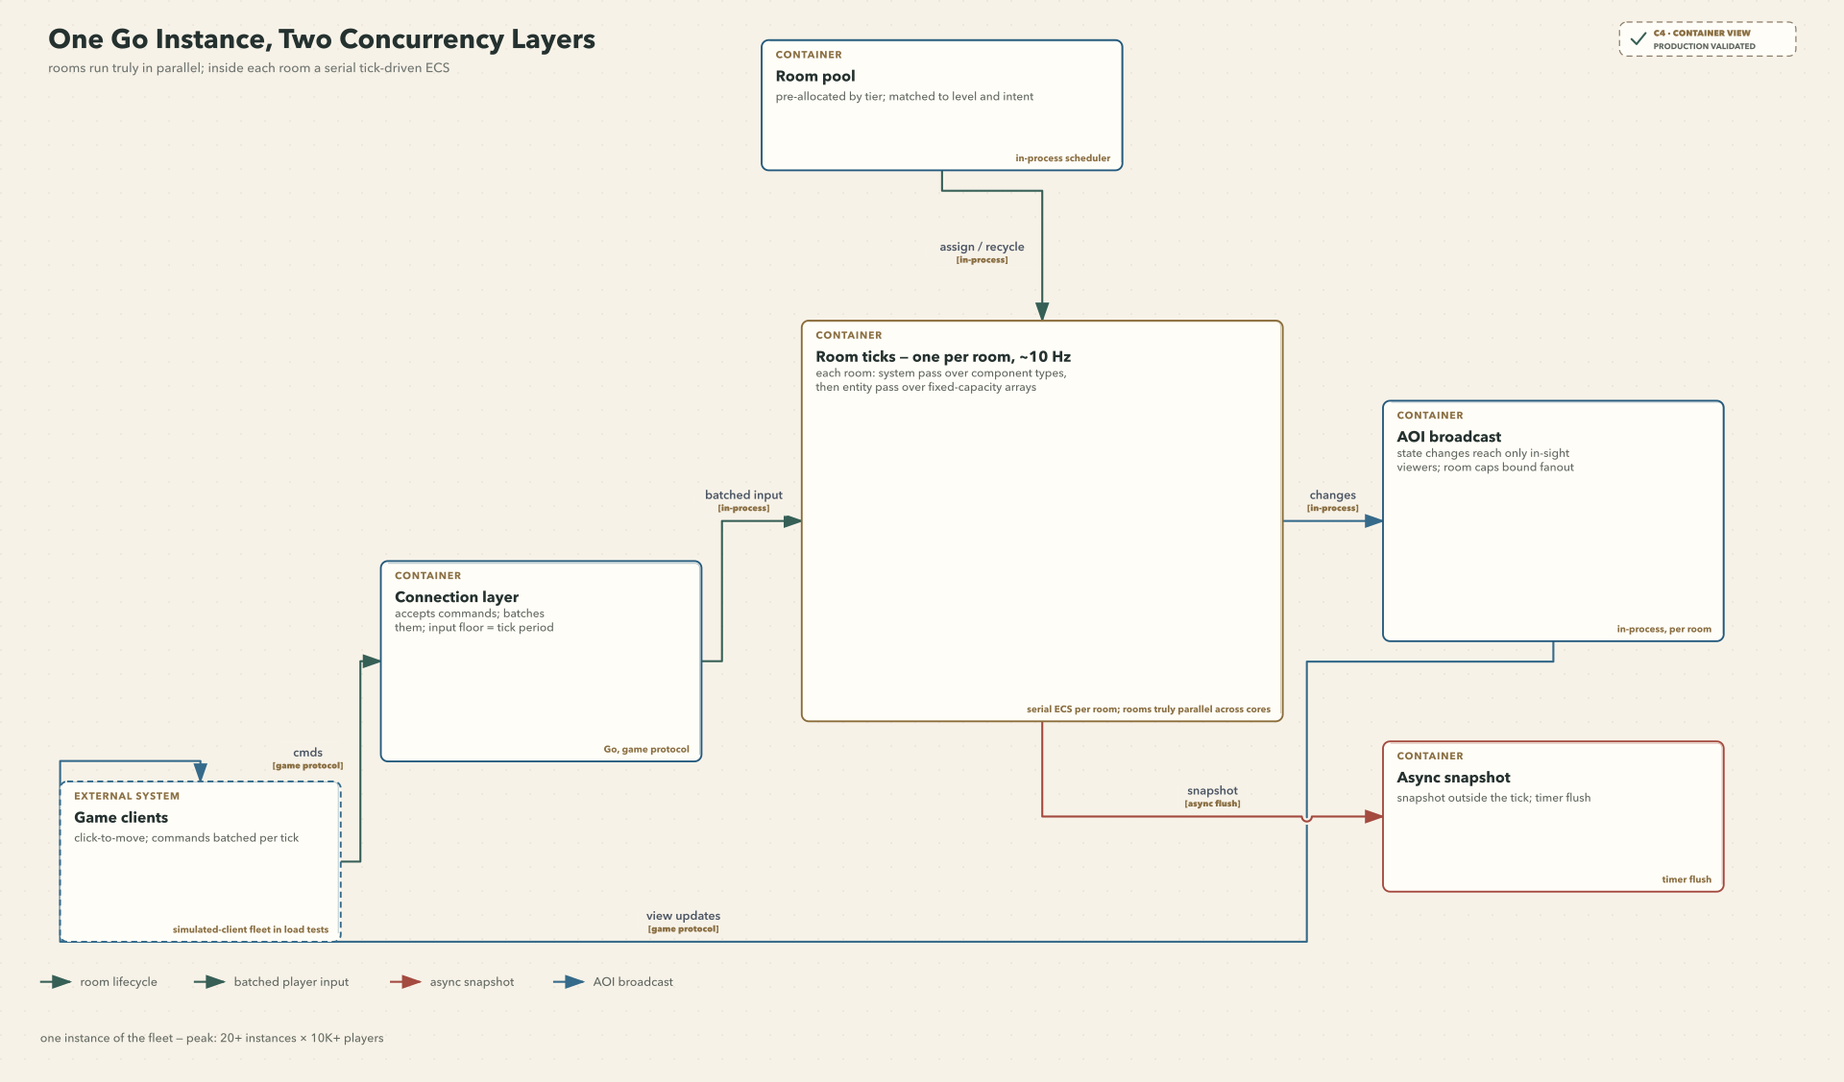
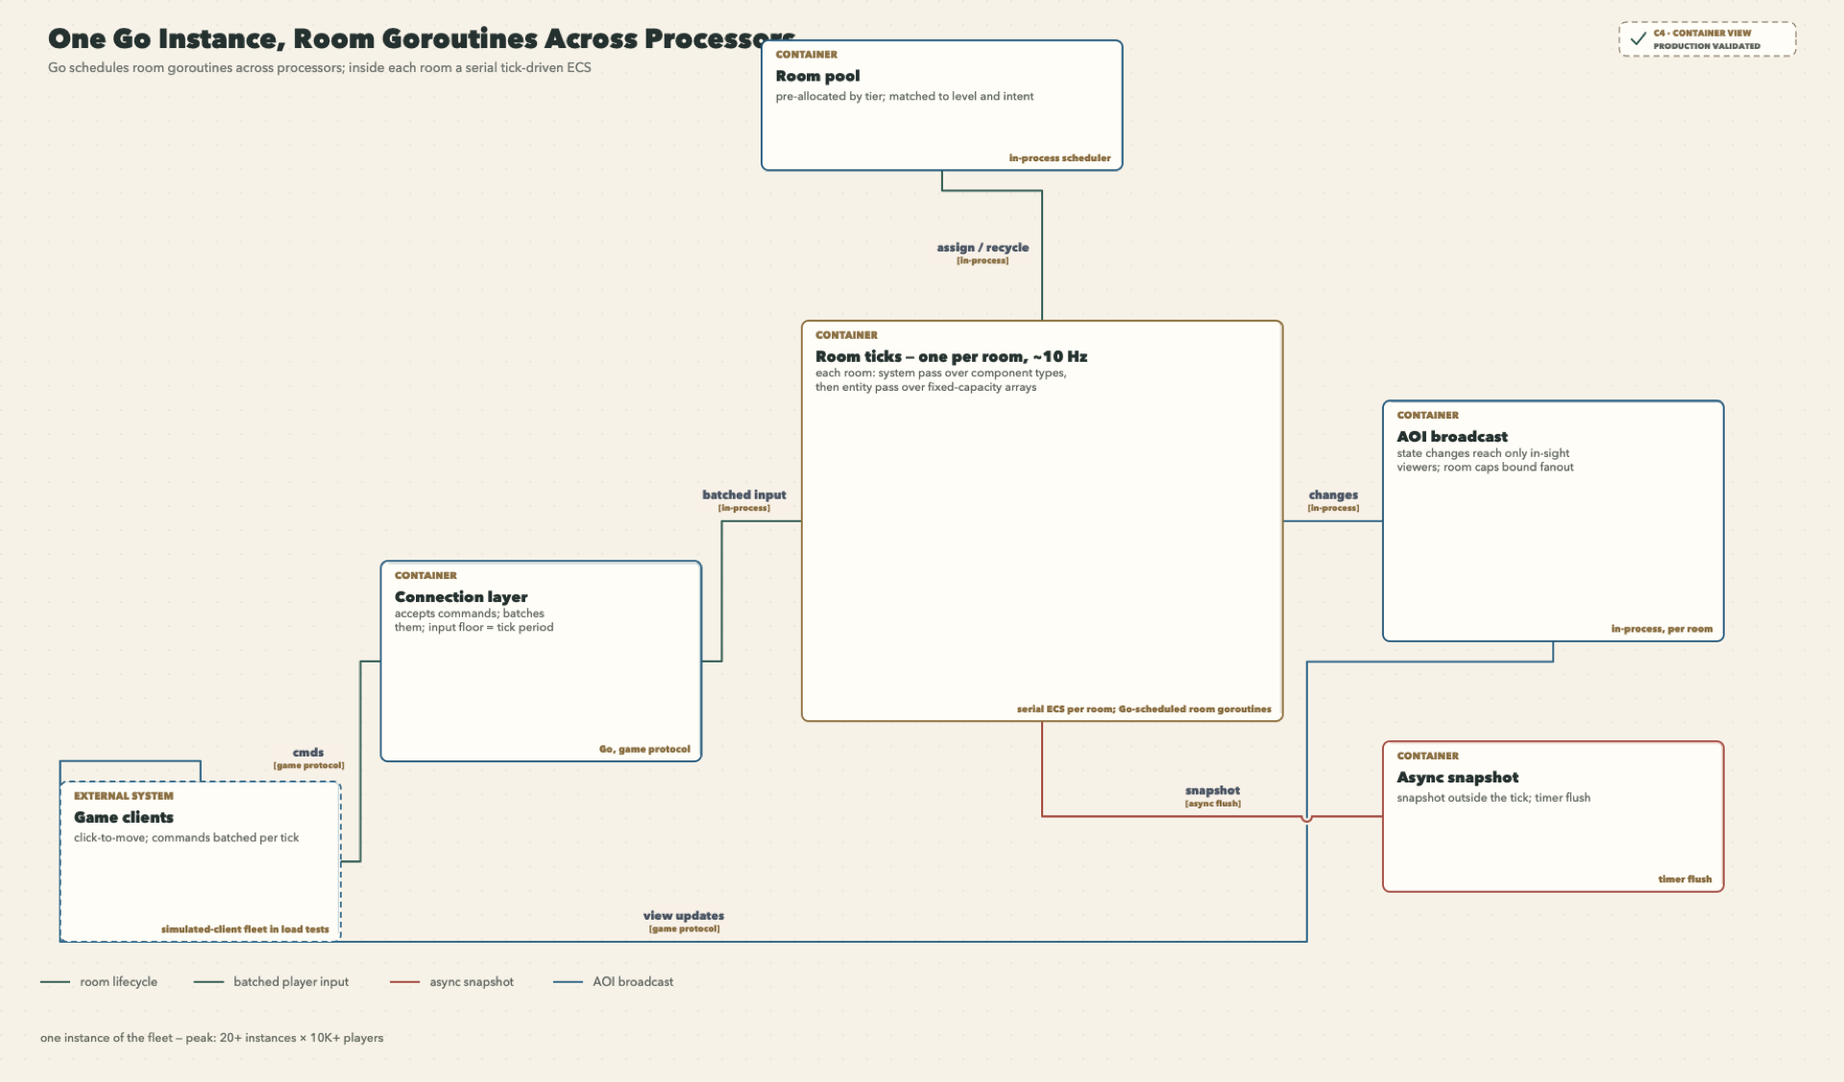
docs: clarify game server concurrency model

diff --git a/source/_posts/engineering-case-study/running-a-million-dau-casual-game-on-go-rooms-as-the-concurrency-boundary.md b/source/_posts/engineering-case-study/running-a-million-dau-casual-game-on-go-rooms-as-the-concurrency-boundary.md
@@ -1,6 +1,6 @@
 ---
 title: "Running a Million-DAU Casual Game on Go: Rooms as the Concurrency Boundary"
-date: 2026-10-17 10:00:00
+date: 2020-01-25 10:00:00
 categories:
   - Engineering Case Study
 tags:
@@ -9,10 +9,14 @@ tags:
   - ecs
   - concurrency
 seo_image: architecture.png
-description: "A QQ-licensed casual game with a million daily users sized for tens of millions: one Go binary running rooms truly in parallel on multiple cores, with a serial tick-driven ECS inside each room. How the concurrency boundary was chosen, and the pprof finding that moved component data from maps into pre-allocated arrays."
+description: "A QQ-licensed casual game with a million daily users sized for tens of millions: one Go binary running room goroutines under Go's multicore scheduler, with a serial tick-driven ECS inside each room. How the concurrency boundary was chosen, and the pprof finding that moved component data from maps to pre-allocated arrays."
 ---
 
 The capacity target was set before the server had a shape. The game was a QQ-licensed pet title in the casual category, and traffic would arrive the way Tencent ramps a national title: exposure slots opened gradually over months, with activity peaks far above the daily waterline. We designed for a user base in the tens of millions, which meant the architecture had to scale horizontally by instance count without any redesign, and each instance had to be dense enough that the instance count stayed operationally sane.
+
+The design point was roughly 200,000 peak concurrent players, with 30–100 players per room, room ticks at roughly 10 Hz, and about 10,000 players per instance. The capacity model later shows how these figures translate into room count, instance count, and machine resources.
+
+The design decision that made the server scale was not ECS by itself. It was choosing the room as the logical concurrency boundary: each room ran as a goroutine with private state, and Go's runtime scheduled those room goroutines across the machine's processors while each room stayed serial and data-oriented.
 
 Inside one process, the game had two very different shapes of state to synchronize. Outside rooms, players idled and collected — slow-paced, tolerant of seconds of delay. Inside rooms, they moved freely on a grid, interacted, explored, and fought over collection spots, with clicks translated into pathing and movement one cell at a time. One server binary, two synchronization semantics, and a hard ceiling on how much computation any single room's update cycle could afford.
 
@@ -27,52 +31,101 @@ A design point in the tens of millions decomposes into two independent numbers: 
 Per-instance density set the requirements:
 
 - Two sync semantics in one binary. Room-external idle state could lag; room-internal grid movement had to feel responsive. A click on a target cell became server-side pathing and one-cell-per-tick movement — no physics, no interpolation, but perceptible if the server hesitated.
-- A bounded update cycle per room. Each room ticked at roughly 10 Hz, so a tick had a budget of about 100 milliseconds; whatever the room did in that budget defined the player's worst-case interaction latency.
+- A bounded update cycle per room. Each room ticked at roughly 10 Hz, so each tick had a 100-millisecond wall-clock deadline; the room's actual CPU consumption was only part of that interval. Whatever the room did before that deadline defined the player's worst-case interaction latency.
 - Broadcast costs that stay flat as a room fills. Every movement and interaction was broadcast to the players who could see it. Fanout had to be bounded by design, not by hope.
 
-The 10 Hz figure is a reconstruction, not a record: I no longer have the exact tick rate, but one-cell movement and batched input both point to that order — fast enough that a click lands within a casual player's perception window, slow enough that the per-tick budget is realistic for the entity counts involved.
+The 10 Hz rate gives each tick a 100-millisecond wall-clock deadline; the room's actual CPU consumption is only part of that interval.
 
-## Two candidate concurrency models
+## Two ways to organize ownership and execution
 
-The selection question was not "which library" but **where to put concurrency**. Two candidates came before the design we shipped.
+The selection question was not "actor or ECS?" Those models answer different questions. An actor model defines who owns mutable state and how work reaches it. ECS defines how a simulation stores component data and runs systems over entities. The useful comparison for this game was where to place the ownership boundary, and what execution model to use inside that boundary.
 
-One actor per player. Every player gets a goroutine and a mailbox; all interaction is message passing. The model parallelizes naturally and isolates failure per player, but in this workload its costs land exactly on the hot path. Player-to-player interaction inside a room — the PVP contact, the contested collection spot — becomes mailbox round trips; a query like "who is within sight of this player" becomes a fan of messages across actors, assembled somewhere, late. Channel operations and message allocation on every interaction feed the garbage collector precisely where the tick budget is spent.
+A player-level actor was one possible ownership boundary. Each player would own state in a goroutine and receive commands through a mailbox. That would isolate players, but it would cut across the game's interaction boundary: movement, visibility, contested collection spots, and PVP all require several players and room state to be evaluated together. A query such as "which players are within this area of interest?" would become cross-actor messaging and result assembly. The design would pay channel, mailbox, and message-allocation costs on the hot path while making the room's tick semantics harder to keep deterministic. We rejected player-level ownership because the room, rather than the player, was the unit in which state changed together.
 
-One global tick over all entities. The opposite pole: a single tick loop iterating every entity in the world, serially. Data-oriented and simple, but a serial loop cannot fill a many-core machine, and one laggy room stalls every other room in the process. At our density target that wastes most of an expensive box and couples unrelated players' latency.
+A single global tick was the other extreme: one loop would iterate every room and entity in the process. It would make ordering simple, but it would couple unrelated rooms to one scheduler and one latency budget. A slow or unusually busy room could delay every other room, and one serial loop could not use the machine's available processors effectively at the observed density.
 
-The design we shipped put the boundary where the domain already had one. **A room is the concurrency unit**: it owns its state exclusively, runs its own tick, and is the failure and latency domain — actor-shaped at the room level. Inside the room, there are no goroutines and no messages: entities are component records, systems are iteration passes over them, and a tick walks the room's systems serially. Rooms run truly in parallel across the machine's cores; nothing mutable is shared between rooms, so the parallelism needs no locks on the game path.
+The shipped design combined the two useful ideas at different layers. The room became the ownership and scheduling boundary: one room goroutine owned its mutable state, and Go's runtime scheduled room goroutines across the available processors. Inside the room's simulation loop, there were no additional goroutines and no message passing: entities were component records, systems were iteration passes over them, and a tick walked the room's systems serially. Fixed-capacity component arrays made those traversals predictable and avoided unnecessary map and allocation work.
 
-This is why the actor-versus-ECS framing never quite matched the decision. Both models appear — actor isolation at the room boundary, ECS data layout inside it — each doing what it is good at. ECS was chosen at selection time, before any code ran, to avoid the actor model's costs at player granularity; the room is what made that choice compatible with filling a multicore machine.
-
-The ECS side of the selection drew on [Overwatch Gameplay Architecture and Netcode](https://www.youtube.com/watch?v=W3aieHjyNvw) — Timothy Ford's GDC 2017 talk, itself an argument for a strict ECS over the classic actor model. Nothing of its netcode half applied here: Overwatch is a 60 Hz client-predicted shooter, this was a server-authoritative casual title where the client renders what the room tick decides. What translated was the architecture half — components hold state, systems hold behavior, iteration walks contiguous storage — mapped onto a Go server instead of a C++ engine.
+The ECS side of the design was informed by [Overwatch Gameplay Architecture and Netcode](https://www.youtube.com/watch?v=W3aieHjyNvw), but only its architecture principle carried over: components held state, systems held behavior, and iteration favored contiguous storage. Its 60 Hz client-predicted netcode was outside the scope of this server-authoritative casual game.
 
 ## The architecture
 
-{% asset_img architecture.png "One Go instance, two concurrency layers: rooms truly parallel across cores, serial tick-driven ECS inside each room" %}
+{% asset_img architecture.png "One Go instance, room goroutines scheduled across cores, serial tick-driven ECS inside each room" %}
 
 At the machine level, the instance manages rooms as pooled resources. Rooms are assigned and initialized according to player load and player stratification; several room classes exist, and players are placed into the class matching their level and intent, so a new player lands among peers rather than among veterans. Rooms are pre-allocated ahead of demand — a traffic ramp arrives as a wave of room spin-ups, not as allocation work on the hot path — and recycled when the waterline falls.
 
 Inside a room, the tick runs two nested serial iterations: the system pass over component types, and within each system, the pass over entities. Component data lives in fixed-capacity arrays, pre-allocated to the room's entity cap and indexed directly — a component lookup is an array subscript, not a hash. Player input arrives through the connection layer and is batched; a tick consumes the batch accumulated since the previous one, which makes the tick period the input-latency floor and keeps per-tick work predictable.
 
-Broadcast is bounded two ways. Every state change reaches only the players whose area of interest contains it — the same field of view that defines PVP interaction defines its audience — and each room has a population cap, which exists for gameplay as much as for load: the casual collection-and-interaction loop only works when a room is not crowded. The combination keeps fanout flat regardless of instance density.
+Broadcast was bounded two ways. Every state change reached only the players whose area of interest contained it — the same field of view that defined PVP interaction defined its audience — and each room had a population cap. Together, AOI and the room cap bounded the audience of each state change.
 
-Persistence sits outside the tick entirely. Rooms snapshot asynchronously and flush on a timer; the game state that matters survives a restart, and the state that does not — seconds of idle movement — is accepted as lost. This is a casual-title tolerance, and it is load-bearing: it is what allows the entire game state to live in memory with no write-through on the hot path. The exact flush interval and loss window are not something I can still reconstruct, and I would rather leave that boundary stated than invent a number.
+Persistence sits outside the tick entirely. Rooms snapshot asynchronously and flush on a timer; the game state that matters survives a restart, while seconds of idle movement may be lost. This is a casual-title tolerance, and it keeps write-through work off the hot path.
+
+## Capacity model
+
+The capacity model uses four figures: peak players, players per room, players per instance, and tick rate. The formulas show how they relate.
+
+| Input | Value | Meaning |
+| --- | ---: | --- |
+| Peak concurrency | about 200,000 | Fleet capacity target |
+| Players per room | 30–100 | Converts players into rooms |
+| Instance density | 10,000 players/instance | Converts players into instances |
+| Tick rate | roughly 10 Hz | 100 ms wall-clock deadline |
+
+The key calculations are:
+
+```text
+active_rooms = ceil(peak_players / players_per_room)
+instances    = ceil(peak_players / players_per_instance)
+```
+
+At the peak, 30–100 players per room means roughly 2,000–6,667 active rooms. At 10,000 players per instance:
+
+```text
+ceil(200,000 / 10,000) = 20 instances
+```
+
+Twenty instances is the active-capacity lower bound. A production fleet needs additional capacity for uneven placement, warm rooms, reconnects, rolling changes, and instance failure.
+
+For a 10,000-player instance with 50-player rooms, the CPU model is the next sizing step:
+
+```text
+required_cores ≈ rooms × cpu_seconds_per_tick × tick_rate / utilization
+```
+
+With 200 rooms, a 10 Hz tick, a 5 ms CPU cost per room per tick, and a 70% utilization target:
+
+```text
+200 × 0.005 × 10 / 0.70 ≈ 14.3 cores
+```
+
+Rounding up and leaving room for networking, persistence, GC, scheduling, and short bursts gives 16 logical cores.
+
+Memory is calculated from the recorded room profile:
+
+```text
+memory = process_baseline + rooms × room_memory + buffers + headroom
+```
+
+The per-room profile was 1–4 MiB. Two hundred rooms therefore contributed roughly 200–800 MiB; the rest of the 16 GiB machine covered the Go process, player connections, queues, snapshots, caches, runtime metadata, and safety margin. The 32 GiB machines were used where those non-room allocations or pre-allocated room state were larger.
+
+The model is small by design. A load test measured CPU time per room tick and process RSS with representative room sizes, then checked burst traffic, reconnects, snapshots, and a degraded dependency. The equations make the capacity decision reviewable.
+
 
 ## The load test that reshaped the data layout
 
 Because the game was planned for national-IP traffic from the start, load testing was treated as part of the design, not a release gate at the end. The method: boot a fleet of slightly lower-spec instances running simulated clients — bots walking the real client protocol, clicking into rooms, moving, collecting — and drive the server fleet to its target density.
 
-The symptom appeared at density: room ticks frequently overran their budget, and the clients showed it first as an inability to align state within their latency-tolerance window — the server's answers about room state arrived later than the client's interpolation could absorb. That observation mattered diagnostically: it localized the problem to the room's update cycle rather than to the network or the broadcast path.
+The symptom appeared at density: room ticks frequently overran their deadline, and clients showed it first as room-state updates arriving later than the interaction window could tolerate. That was the investigation signal, not proof that the network or broadcast path was innocent; the profile identified where the budget was actually going.
 
-[pprof](https://go.dev/devtools/pprof) attributed the lost budget to map operations. The component-access path still went through maps in the hot loop — lookups and growth on every component touch of every entity in every tick — and at room scale that overhead, plus the allocation churn that came with it, consumed the tick budget. The fix was to finish what the architecture implied: move component storage into pre-allocated fixed-capacity arrays indexed directly, and reuse the memory across room lifecycles. Ticks returned inside their budget, and the same change removed a steady source of [garbage-collector](https://go.dev/doc/gc-guide) pressure — the allocation profile of the hot path went quiet.
+[pprof](https://go.dev/devtools/pprof) attributed the lost budget to map operations. The hot loop paid for repeated map lookups, while inserts and growth added allocation and resizing costs. At room scale, that overhead consumed the tick deadline. The fix was to move component storage into pre-allocated fixed-capacity arrays indexed directly, and reuse the memory across room lifecycles. Ticks returned inside their deadline, and the allocation profile of the hot path quieted.
 
 Two non-findings are worth recording. Broadcast fanout was never the problem — area-of-interest filtering and the room population caps had already bounded it. And the failure never reached production: it was found by the load test, which is the load test doing its job.
 
 ## Results
 
-The density target held. A single instance carried ten-thousand-plus concurrent users — the figure my resume records from this period — and the fleet scaled by instance count as designed. At activity peaks, when Tencent opened exposure slots, concurrent players reached roughly 20% of a million daily actives — on the order of two hundred thousand — spread across twenty-plus high-spec instances. The daily waterline ran at tens of thousands online. Against the tens-of-millions design point, the fleet never approached its architectural ceiling; scaling was a provisioning decision, not an engineering one.
+The density target held. A single instance carried ten-thousand-plus concurrent users — the figure my resume records from this period — and the fleet scaled by instance count as designed. At activity peaks, when Tencent opened exposure slots, concurrent players reached roughly 200,000 against a daily active population of about one million, spread across twenty-plus high-spec instances. The daily waterline ran at tens of thousands online. Against the tens-of-millions design point, the fleet never approached its architectural ceiling; scaling was a provisioning decision, not an engineering one.
 
-Three boundaries on these numbers. The tick rate is a reconstruction, as noted. The instance specifications and per-room population caps are not something I can still cite precisely — "high-spec" is honest, a specific core-and-RAM figure would be invented. And the garbage-collector improvement is qualitative: allocation churn on the hot path measurably dropped in the profiles, but I have no pause-frequency before/after record to quote.
+The exact hardware SKU and per-room population cap are omitted here; the fleet ran on high-spec instances. The garbage-collector improvement is qualitative: allocation churn on the hot path measurably dropped in the profiles, but there is no pause-frequency before/after record to quote.
 
 ## Trade-offs
 
@@ -82,11 +135,11 @@ Room isolation is also a closed border. State shared across rooms has no natural
 
 The persistence stance is a genre decision. Asynchronous snapshots with periodic flush worked because a casual title tolerates losing seconds of idle movement. A game where state loss meant money, inventory integrity, or competitive position could not buy density this cheaply — its write path would have to sit inside the tick's budget, and the whole arithmetic of this architecture changes.
 
-Serial-within-room is both the safety model and the ceiling. One pathological entity stalls only its own room — the failure domain is a roomful of players, not the instance. The same property means a single room's complexity cannot be parallelized away; a room that outgrows its tick budget has no remedy inside this architecture except a smaller cap.
+Serial-within-room is both the safety model and the ceiling. One pathological entity should stall only its own room while the process and scheduler remain healthy — the logical failure domain is a roomful of players, not the instance. The same property means a single room's complexity cannot be parallelized away; a room that outgrows its tick deadline has no remedy inside this architecture except a smaller cap.
 
 ## What I would change today
 
-The placement of the concurrency boundary I would keep: it matched a seam the domain already had, and every operational property we needed — parallelism across cores, failure isolation, flat broadcast — fell out of that one decision. If I redesigned the interior today, it would be the entity-cap pre-allocation I would revisit: sizing component storage to observed occupancy with hysteresis, or archetype grouping for the hottest components, to return some of the peak-provisioned memory. And I would instrument the flush path from day one — the snapshot loss window was a parameter we lived with comfortably but never measured, and "comfortable" is a weaker claim than a number.
+The placement of the concurrency boundary I would keep: it matched a seam the domain already had, and every operational property we needed — room-level isolation, multicore scheduling, failure isolation, flat broadcast — fell out of that one decision. If I redesigned the interior today, it would be the entity-cap pre-allocation I would revisit: sizing component storage to observed occupancy with hysteresis, or archetype grouping for the hottest components, to return some of the peak-provisioned memory. And I would instrument the flush path from day one — the snapshot loss window was a parameter we lived with comfortably but never measured, and "comfortable" is a weaker claim than a number.
 
 The transferable rule this case left me: when a domain has a natural isolation seam — a room, a match, a document, a tenant — put the concurrency boundary on that seam, keep the inside serial and data-oriented, and let the seam absorb both the parallelism and the failure. The actor and ECS debates are usually about which model to adopt; in practice the durable designs I have built use each at the layer where its costs are zero.
 
